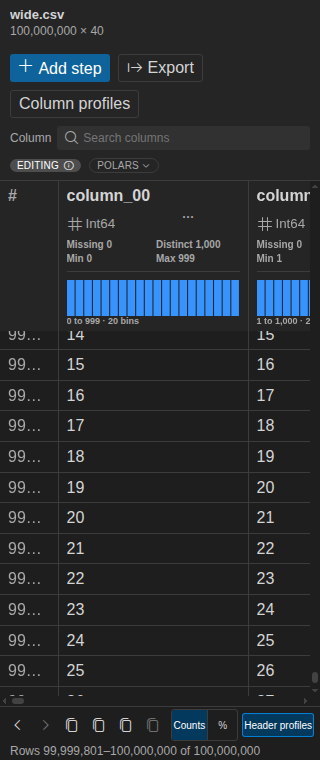
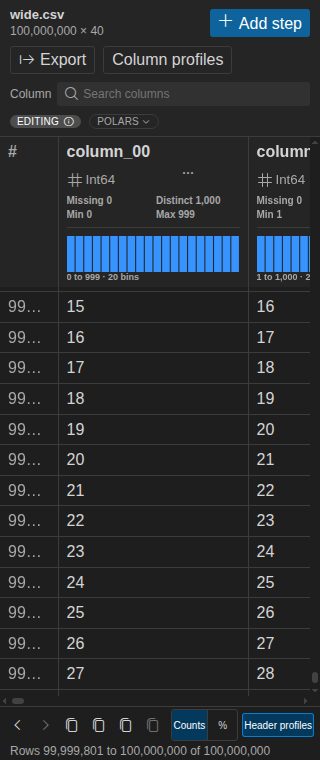
Share toolbar rows in narrow editors

diff --git a/src/test/extensionHost/index.ts b/src/test/extensionHost/index.ts
@@ -10928,17 +10928,13 @@ async function capturePackagedEditorScreenshots(testing: TestApi, outputDirector
       return {
         appOverflow: root.scrollWidth - root.clientWidth,
         toolbarOverflow: toolbar.scrollWidth - toolbar.clientWidth,
-        toolbarActionsOverflow: toolbarActions.scrollWidth - toolbarActions.clientWidth,
         gridStatusBarOverflow: gridStatusBar.scrollWidth - gridStatusBar.clientWidth,
-        clippedToolbarControls: clippedChildren(".toolbarActions", ":scope > *"),
+        clippedToolbarControls: clippedChildren(".toolbar", ":scope > .toolbarActions > *"),
         clippedGridStatusBar: clippedChildren(".gridStatusBar", ":scope > *")
       };
     });
     assert.ok(
-      measurement.appOverflow <= 1 &&
-        measurement.toolbarOverflow <= 1 &&
-        measurement.toolbarActionsOverflow <= 1 &&
-        measurement.gridStatusBarOverflow <= 1,
+      measurement.appOverflow <= 1 && measurement.toolbarOverflow <= 1 && measurement.gridStatusBarOverflow <= 1,
       `The 200% zoom layout must not overflow horizontally: ${JSON.stringify(measurement)}`
     );
     assert.deepEqual(

diff --git a/src/webviews/styles/responsive.css b/src/webviews/styles/responsive.css
@@ -58,12 +58,21 @@
   }
 
   .toolbar {
-    align-items: stretch;
-    flex-direction: column;
+    align-items: center;
+    flex-direction: row;
+    flex-wrap: wrap;
+    gap: 8px;
+    justify-content: flex-start;
   }
 
   .toolbarActions {
-    justify-content: flex-start;
+    display: contents;
+  }
+
+  .toolbarIdentity {
+    flex: 1 1 15ch;
+    min-width: 0;
+    max-width: 100%;
   }
 
   .goToColumn {

diff --git a/docs/feature-parity.md b/docs/feature-parity.md
@@ -518,6 +518,7 @@ The operation catalog search exposes its accessible name before and after enteri
 Moving or removing a focused form row, or clearing unavailable selections, keeps keyboard focus inside the operation dialog.
 Column search keeps arrow and page-key navigation aligned with the displayed results when cleaning changes the schema.
 Small editor panes preserve room for the grid header and a row while the workbench scrolls around wrapped controls.
+In narrow panes, the source name and actions share toolbar rows when space allows.
 Column profiles and filters stay beside the grid, or below it in narrow panes, without covering the selected cell.
 The stacked layout shows fewer rows and scrolls to reach longer filter forms.
 During applied-step inspection, **Viewing filters paused** expands to reveal the retained rules. Clearing inspection

diff --git a/docs/testing.md b/docs/testing.md
@@ -125,6 +125,8 @@ header with the panel open at 1280px, 800px, 621px, 620px and a short 320px view
 data lane must expose that lane; the panel must not cover the grid, and its short-layout controls retain Tab/Escape access.
 The inspection workflow checks Enter on the paused-filter disclosure, retained disabled rules and focus on entry and
 return. Focus moves from a filter control being hidden to the disclosure and leaves unrelated controls alone.
+The mode-help owner checks compact toolbar containment with a long source label, keyboard disclosure and Spark's
+viewing-only ordering help, while retaining its blocked mode transition and projection-gated Undo checks.
 
 Use the existing owners to choose a focused source check:
 

diff --git a/CHANGELOG.md b/CHANGELOG.md
@@ -8,6 +8,7 @@ All notable changes to Open Wrangler are documented here. Preview builds remain 
 
 - Formula steps show their saved output names in Cleaning Steps tooltips and accessible names.
 - Applied-step inspection collapses paused viewing filters into a disclosure, with full rules available on demand.
+- Narrow editors let the source name share a toolbar row with actions, leaving more room for data.
 
 ### Fixed
 
